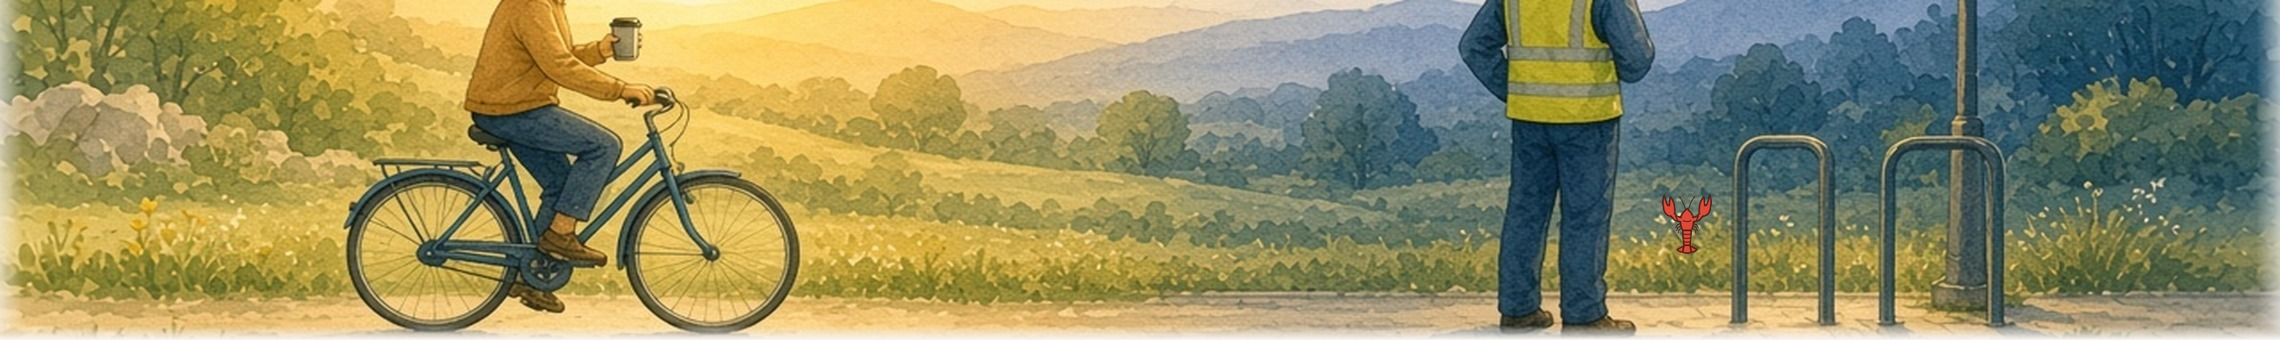
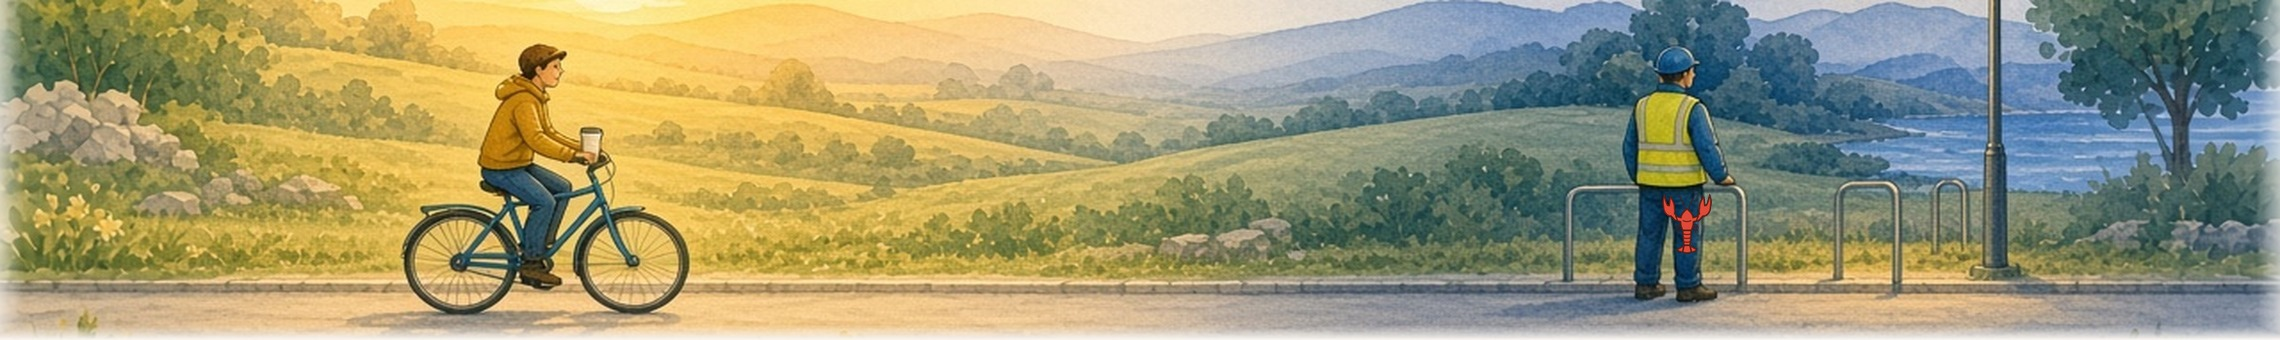
Onboarding rustig step-02 u6n: small figures, shared mobile/desktop scene, YOLO gate.
Regenerate morning cyclist + evening worker 16:9 with middle-distance framing;
author 6:1 band via YOLO margin search; mobile crops same band-native raw.
Add check-onboarding-rustig-hero-persons and verify-onboarding-rustig-hero-step02.

diff --git a/tools/scripts/verify-onboarding-rustig-hero-step02.py b/tools/scripts/verify-onboarding-rustig-hero-step02.py
@@ -1,0 +1,72 @@
+#!/usr/bin/env python3
+"""Capture step-02 heroes and block unless YOLO person margins pass (desktop + mobile)."""
+
+from __future__ import annotations
+
+import io
+import subprocess
+import sys
+import time
+from pathlib import Path
+
+from PIL import Image
+from playwright.sync_api import sync_playwright
+
+ROOT = Path(__file__).resolve().parents[2]
+HERO = Path("/opt/cursor/artifacts/onboarding-rustig-hero-crops")
+CHECK = ROOT / "tools/scripts/check-onboarding-rustig-hero-persons.py"
+
+
+def main() -> None:
+    HERO.mkdir(parents=True, exist_ok=True)
+    subprocess.run(["pkill", "-f", "127.0.0.1:8765"], stdout=subprocess.DEVNULL, stderr=subprocess.DEVNULL)
+    proc = subprocess.Popen(
+        ["dotnet", "run", "--project", str(ROOT / "Jobsy.Web/Jobsy.Web.csproj"), "--urls", "http://127.0.0.1:8765"],
+        cwd=ROOT,
+        stdout=subprocess.DEVNULL,
+        stderr=subprocess.DEVNULL,
+    )
+    base = "http://127.0.0.1:8765"
+    desk_out = HERO / "step-02-desktop-hero-1280.png"
+    mob_out = HERO / "step-02-mobile-hero.png"
+    try:
+        with sync_playwright() as p:
+            browser = p.chromium.launch(headless=True)
+            for _ in range(120):
+                try:
+                    pg = browser.new_page()
+                    pg.goto(f"{base}/mockups/onboarding-rustig/start", timeout=5000)
+                    pg.close()
+                    break
+                except Exception:
+                    time.sleep(1)
+            else:
+                raise SystemExit("server not up")
+
+            def save_hero(slug: str, viewport: dict, path: Path) -> None:
+                page = browser.new_page(viewport=viewport)
+                page.goto(f"{base}/mockups/onboarding-rustig/{slug}", wait_until="networkidle")
+                page.wait_for_selector("[data-testid=ob-rustig-hero]", timeout=30_000)
+                page.wait_for_timeout(500)
+                box = page.locator("[data-testid=ob-rustig-hero]").bounding_box()
+                im = Image.open(io.BytesIO(page.screenshot(full_page=False)))
+                x0, y0 = int(box["x"]), int(box["y"])
+                w, h = int(box["width"]), int(box["height"])
+                im.crop((x0, y0, x0 + w, y0 + h)).save(path)
+                page.close()
+
+            save_hero("step-02", {"width": 1280, "height": 900}, desk_out)
+            save_hero("step-02", {"width": 390, "height": 844}, mob_out)
+            browser.close()
+    finally:
+        proc.terminate()
+        proc.wait(timeout=30)
+
+    r = subprocess.run(
+        [sys.executable, str(CHECK), str(desk_out), str(mob_out), "--min-persons", "2"],
+    )
+    raise SystemExit(r.returncode)
+
+
+if __name__ == "__main__":
+    main()

diff --git a/tools/scripts/check-onboarding-rustig-hero-persons.py b/tools/scripts/check-onboarding-rustig-hero-persons.py
@@ -1,0 +1,95 @@
+#!/usr/bin/env python3
+"""YOLO person check on hero JPEG or PNG. Fails if any person violates vertical margins."""
+
+from __future__ import annotations
+
+import argparse
+import sys
+from pathlib import Path
+
+from PIL import Image
+
+TOP_MIN = 0.12
+BOTTOM_MAX = 0.92
+PERSON_CLS = 0
+
+
+def load_yolo():
+    from ultralytics import YOLO
+
+    root = Path(__file__).resolve().parents[2]
+    weights = root / "yolov8n.pt"
+    if not weights.is_file():
+        weights = Path("yolov8n.pt")
+    return YOLO(str(weights))
+
+
+def detect_persons(model, im: Image.Image, conf: float = 0.25):
+    import numpy as np
+
+    arr = np.asarray(im.convert("RGB"))
+    results = model(arr, verbose=False)[0]
+    boxes = []
+    if results.boxes is None:
+        return boxes
+    h, w = arr.shape[:2]
+    for b in results.boxes:
+        if int(b.cls[0]) != PERSON_CLS:
+            continue
+        if float(b.conf[0]) < conf:
+            continue
+        x1, y1, x2, y2 = (float(v) for v in b.xyxy[0])
+        boxes.append(
+            {
+                "x1": x1 / w,
+                "y1": y1 / h,
+                "x2": x2 / w,
+                "y2": y2 / h,
+                "conf": float(b.conf[0]),
+            }
+        )
+    return boxes
+
+
+def validate(boxes: list[dict], label: str) -> bool:
+    ok = True
+    for i, b in enumerate(boxes):
+        top_ok = b["y1"] >= TOP_MIN
+        bot_ok = b["y2"] <= BOTTOM_MAX
+        status = "OK" if (top_ok and bot_ok) else "FAIL"
+        if not (top_ok and bot_ok):
+            ok = False
+        print(
+            f"{label} person[{i}] conf={b['conf']:.2f} "
+            f"y1={b['y1']:.3f} y2={b['y2']:.3f} "
+            f"(need y1>={TOP_MIN:.2f} y2<={BOTTOM_MAX:.2f}) {status}"
+        )
+    if not boxes:
+        print(f"{label}: WARNING no persons detected")
+    return ok
+
+
+def main() -> None:
+    p = argparse.ArgumentParser()
+    p.add_argument("images", nargs="+", help="hero PNG/JPEG paths")
+    p.add_argument("--min-persons", type=int, default=1)
+    args = p.parse_args()
+    model = load_yolo()
+    all_ok = True
+    for path_str in args.images:
+        path = Path(path_str)
+        im = Image.open(path)
+        boxes = detect_persons(model, im)
+        print(f"\n== {path} ({im.size[0]}x{im.size[1]}) persons={len(boxes)} ==")
+        if len(boxes) < args.min_persons:
+            print(f"FAIL: expected at least {args.min_persons} person(s)")
+            all_ok = False
+        if not validate(boxes, path.name):
+            all_ok = False
+    if not all_ok:
+        raise SystemExit(1)
+    print("\nPASS: all person boxes within vertical margins")
+
+
+if __name__ == "__main__":
+    main()

diff --git a/tools/scripts/author-onboarding-rustig-band-yolo.py b/tools/scripts/author-onboarding-rustig-band-yolo.py
@@ -1,0 +1,89 @@
+#!/usr/bin/env python3
+"""Pick a 6:1 vertical slice from 16:9 using YOLO person margin rules (step-03 scale)."""
+
+from __future__ import annotations
+
+import sys
+from pathlib import Path
+
+import numpy as np
+from PIL import Image
+
+TOP_MIN = 0.12
+BOTTOM_MAX = 0.92
+OUT_SIZE = (2400, 400)
+DESK_SIZE = (2280, 340)
+
+
+def load_yolo():
+    from ultralytics import YOLO
+
+    root = Path(__file__).resolve().parents[2]
+    w = root / "yolov8n.pt"
+    return YOLO(str(w if w.is_file() else "yolov8n.pt"))
+
+
+def persons(model, im: Image.Image, conf: float = 0.2):
+    arr = np.asarray(im.convert("RGB"))
+    h, w = arr.shape[:2]
+    res = model(arr, verbose=False)[0]
+    out = []
+    if res.boxes is None:
+        return out
+    for b in res.boxes:
+        if int(b.cls[0]) != 0:
+            continue
+        if float(b.conf[0]) < conf:
+            continue
+        x1, y1, x2, y2 = (float(v) for v in b.xyxy[0])
+        out.append((y1 / h, y2 / h, float(b.conf[0])))
+    return out
+
+
+def slice_ok(fractions: list[tuple[float, float, float]]) -> bool:
+    if not fractions:
+        return False
+    for y1, y2, _ in fractions:
+        if y1 < TOP_MIN or y2 > BOTTOM_MAX:
+            return False
+    return True
+
+
+def extract(im: Image.Image, y0: int, crop_h: int) -> Image.Image:
+    w, h = im.size
+    y0 = max(0, min(y0, h - crop_h))
+    band = im.crop((0, y0, w, y0 + crop_h))
+    return band.resize(OUT_SIZE, Image.Resampling.LANCZOS)
+
+
+def main() -> None:
+    if len(sys.argv) < 3:
+        raise SystemExit("usage: author-onboarding-rustig-band-yolo.py <16x9.jpg> <out-6x1.jpg>")
+    src, dst = Path(sys.argv[1]), Path(sys.argv[2])
+    im = Image.open(src).convert("RGB")
+    w, h = im.size
+    crop_h = int(w / 6.0)
+    model = load_yolo()
+    best = None
+    for y0 in range(0, max(1, h - crop_h), 4):
+        band = extract(im, y0, crop_h)
+        desk = band.resize(DESK_SIZE, Image.Resampling.LANCZOS)
+        fr = persons(model, desk)
+        if not slice_ok(fr):
+            continue
+        # prefer more headroom: minimize average y1
+        score = sum(y1 for y1, _, _ in fr) / len(fr)
+        if best is None or score < best[0]:
+            best = (score, y0, fr, band)
+    if best is None:
+        raise SystemExit("FAIL: no vertical slice satisfies YOLO person margins")
+    _, y0, fr, band = best
+    dst.parent.mkdir(parents=True, exist_ok=True)
+    band.save(dst, quality=95, optimize=True)
+    print(f"wrote {dst} y0={y0} crop_h={crop_h} persons={len(fr)}")
+    for i, (y1, y2, c) in enumerate(fr):
+        print(f"  person[{i}] y1={y1:.3f} y2={y2:.3f} conf={c:.2f}")
+
+
+if __name__ == "__main__":
+    main()

diff --git a/tools/scripts/finalize-onboarding-rustig-panoramas.py b/tools/scripts/finalize-onboarding-rustig-panoramas.py
@@ -189,8 +189,21 @@ def apply_cream_fades(im: Image.Image) -> Image.Image:
     return Image.alpha_composite(im.convert("RGBA"), overlay).convert("RGB")
 
 
+def fit_mobile_band_native(raw: Image.Image) -> Image.Image:
+    """Center crop from the same 6:1 band as desktop (one shared scene)."""
+    w, h = raw.size
+    crop_w = min(w, int(round(h * MOBILE_RATIO)))
+    x0 = max(0, (w - crop_w) // 2)
+    band = raw.crop((x0, 0, x0 + crop_w, h))
+    if band.size != MOBILE:
+        band = band.resize(MOBILE, Image.Resampling.LANCZOS)
+    return band
+
+
 def fit_mobile(raw: Image.Image, slug: str = "") -> Image.Image:
-    """Same vertical slice of the raw as desktop (aligned 92px mobile band)."""
+    """Mobile band from the same scene as desktop (6:1 center crop or aligned 16:9 slice)."""
+    if is_band_native(raw):
+        return fit_mobile_band_native(raw)
     wide = extend_ultra_wide(raw)
     w, h = wide.size
     scale_d = DESKTOP[0] / w
@@ -236,13 +249,17 @@ def main() -> None:
         if src is None:
             raise SystemExit(f"missing raw for {slug} in {RAW}")
         raw = Image.open(src).convert("RGB")
-        mob_candidates = [
-            RAW / f"{slug}-mobile-raw.jpg",
-            RAW / f"{slug}-mobile-raw.png",
-            *candidates,
-        ]
-        mob_src = next((p for p in mob_candidates if p.is_file()), src)
-        raw_mob = Image.open(mob_src).convert("RGB")
+        if is_band_native(raw):
+            raw_mob = raw
+            mob_src = src
+        else:
+            mob_candidates = [
+                RAW / f"{slug}-mobile-raw.jpg",
+                RAW / f"{slug}-mobile-raw.png",
+                *candidates,
+            ]
+            mob_src = next((p for p in mob_candidates if p.is_file()), src)
+            raw_mob = Image.open(mob_src).convert("RGB")
         mob = apply_cream_fades(fit_mobile(raw_mob, slug))
         if slug in PALETTE_SOFTEN_SLUGS:
             mob = soften_hero_palette(mob)

diff --git a/tools/scripts/capture-onboarding-rustig-report-ordered.py b/tools/scripts/capture-onboarding-rustig-report-ordered.py
@@ -19,7 +19,7 @@ ZOOM = Path("/opt/cursor/artifacts/onboarding-rustig-lobster-zoom")
 ORDER = ["step-02", "step-04", "step-05", "step-06", "step-07", "step-08", "step-09", "step-10", "kompas"]
 
 MOB_CENTER: dict[str, tuple[float, float]] = {
-    "step-02": (0.88, 0.54),
+    "step-02": (0.72, 0.62),
     "step-04": (0.72, 0.62),
     "step-05": (0.14, 0.66),
     "step-06": (0.68, 0.55),

diff --git a/Jobsy.Web/OnboardingRustigMockups/OnboardingRustigPanoramaAssets.cs b/Jobsy.Web/OnboardingRustigMockups/OnboardingRustigPanoramaAssets.cs
@@ -2,7 +2,7 @@ namespace Jobsy.Web.OnboardingRustigMockups;
 
 public static class OnboardingRustigPanoramaAssets
 {
-    public const string Version = "20261020-u6m";
+    public const string Version = "20261020-u6n";
 
     public static string Desktop(string slug) =>
         $"/images/onboarding/rustig-panorama/{slug}-desktop.jpg?v={Version}";
